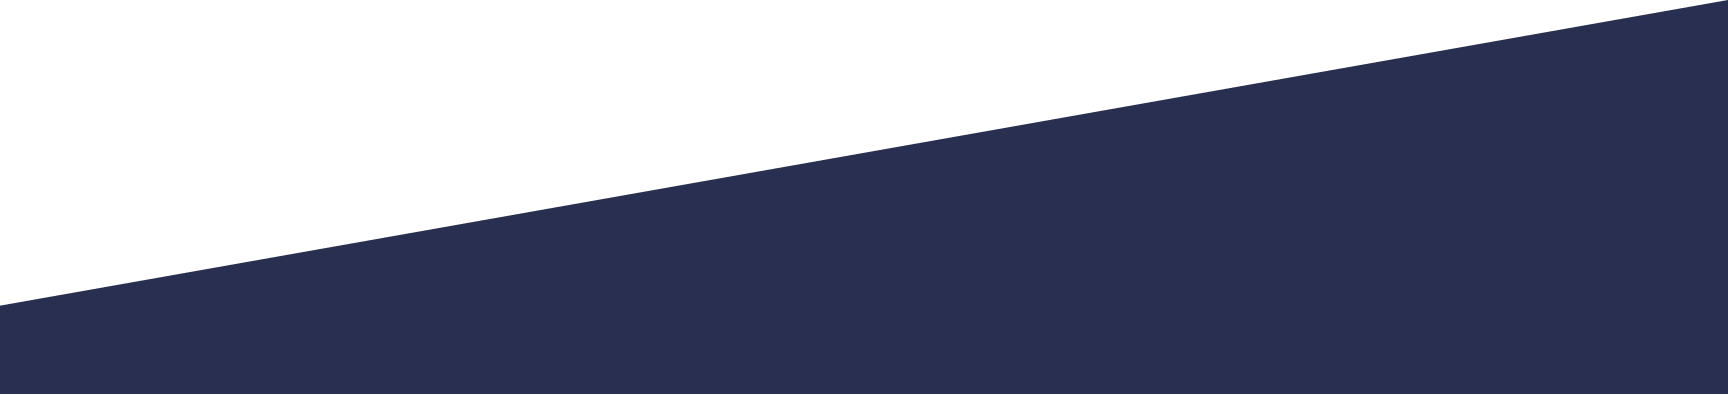
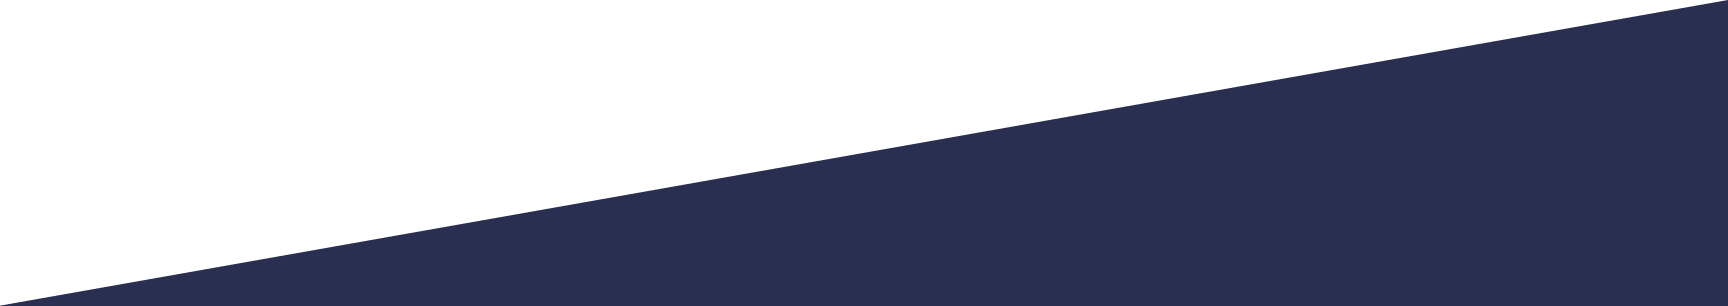
change images

Changed region(s): [[0.0, 0.0294, 1.0, 1.0], [0.9688, 0.0, 1.0, 0.0294]]

diff --git a/style.css b/style.css
@@ -401,7 +401,7 @@ ul {
 }
 /*home-queue-management*/
 .home-queue-management {
-	padding-bottom: 510px;
+	padding-bottom: 570px;
 	position: relative;
 	background-image: url("img/home/bg-queue-management.png");
 	background-size: contain;
